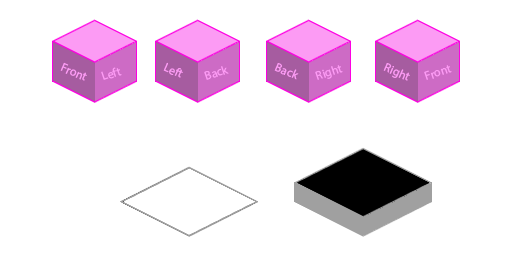
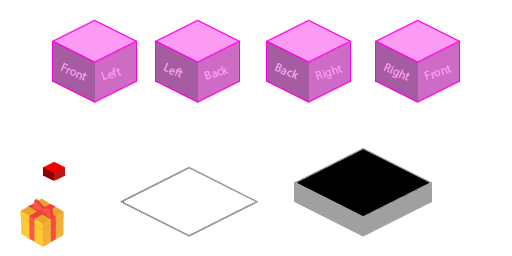
finished iso view items

Changed region(s): [[0.0312, 0.7812, 0.125, 0.9688], [0.0625, 0.625, 0.125, 0.7188]]

diff --git a/Isometric/Game.cs b/Isometric/Game.cs
@@ -15,7 +15,7 @@ namespace Isometric {
         public static readonly int TILE_H = 70;
         public int Score = 0;
         protected List<Bullet> projectiles = null;
-
+        protected int Sprite = 0;
         protected string spriteSheets = "Assets/isometric.png";
         protected string heroSheet = "Assets/isometric.png";
         protected string npcSheet = "Assets/isometric.png";
@@ -74,6 +74,7 @@ namespace Isometric {
             //Window.ClientSize = new Size(8 * tileSize, 6 * tileSize);
             Window.ClientSize = new Size(990, 550);
             projectiles = new List<Bullet>();
+            Sprite = TextureManager.Instance.LoadTexture(spriteSheets);
             TextureManager.Instance.UseNearestFiltering = true;
 
             GraphicsManager.Instance.SetDepthRange(0, 21 * 21);
@@ -87,9 +88,9 @@ namespace Isometric {
 
             room1.AddEnemy(npcSheet, new Point(6 * TILE_W, 1 * TILE_H), true);
             room2.AddEnemy(npcSheet, new Point(1 * TILE_W, 4 * TILE_H), false);
-            room1.AddItem(spriteSheets, new Rectangle(350, 255, 16, 16), 10, new Point(4 * TILE_W + 7, 2 * TILE_H + 7));
-            room1.AddItem(spriteSheets, new Rectangle(381, 256, 13, 15), 20, new Point(5 * TILE_W + 7, 4 * TILE_H + 7));
-            room2.AddItem(spriteSheets, new Rectangle(412, 256, 16, 15), 30, new Point(4 * TILE_W + 7, 2 * TILE_H + 7));
+            room1.AddItem(spriteSheets, new Rectangle(20, 198, 44, 49), 10, new Point(3 * TILE_W, 2 * TILE_H + 7));
+            room1.AddItem(spriteSheets, new Rectangle(20, 198, 44, 49), 20, new Point(5 * TILE_W, 4 * TILE_H + 7));
+            room2.AddItem(spriteSheets, new Rectangle(20, 198, 44, 49), 30, new Point(4 * TILE_W, 2 * TILE_H + 7));
         }
         public void Update(float dt) {
             if (InputManager.Instance.KeyPressed(OpenTK.Input.Key.U)) {
@@ -117,7 +118,7 @@ namespace Isometric {
                     else if (hero.currentSprite == "right") {
                         velocity.X = 100.0f;
                     }
-                    projectiles.Add(new Bullet(hero.Center, velocity));
+                    projectiles.Add(new Bullet(hero.Center, velocity,Sprite));
                 }
                 for (int i = projectiles.Count - 1; i >= 0; i--) {
                     projectiles[i].Update(dt);
@@ -192,6 +193,7 @@ namespace Isometric {
             room1.Destroy();
             room2.Destroy();
             hero.Destroy();
+            TextureManager.Instance.UnloadTexture(Sprite);
         }
     }
 }

diff --git a/Isometric/Bullet.cs b/Isometric/Bullet.cs
@@ -3,29 +3,37 @@ using System.Drawing;
 
 namespace Isometric {
     class Bullet {
+        private int spriteSheetHandle;
+        private Rectangle sourceRect = new Rectangle(43,161,22,20); //from spritesheet
         public PointF Position = new PointF(0f, 0f);
         public PointF Velocity = new PointF(0f, 0f);
         public Rectangle Rect {
             get {
-                return new Rectangle((int)Position.X - 5, (int)Position.Y - 5, 10, 10);
+                return new Rectangle(new Point((int)Position.X,(int)Position.Y), new Size(sourceRect.Width / 2, sourceRect.Width / 2));
             }
         }
-        public Bullet(PointF pos, PointF vel) {
+        public Bullet(PointF pos, PointF vel, int sheetReferance) {
             Position = pos;
             Velocity = vel;
+            spriteSheetHandle = sheetReferance;
         }
         public void Update(float dTime) {
             Position.X += Velocity.X * dTime;
             Position.Y += Velocity.Y * dTime;
         }
         public void Render(PointF offsetPosition) {
-            Rectangle renderRect = new Rectangle(0, 0, 10, 10);
-            renderRect.X = (int)(Position.X - 5.0f);
-            renderRect.Y = (int)(Position.Y - 5.0f);
-            renderRect.X -= (int)offsetPosition.X;
-            renderRect.Y -= (int)offsetPosition.Y;
+            PointF renderPoint = new PointF(Position.X,Position.Y);
+            renderPoint.X -= (int)offsetPosition.X;
+            renderPoint.Y -= (int)offsetPosition.Y;
+            renderPoint = Map.CartToIso(renderPoint);
+            renderPoint.X += 57;//allign with registration point
             GraphicsManager.Instance.SetDepth(19 * 19);
-            GraphicsManager.Instance.DrawRect(renderRect, Color.Red);
+            if (Game.ViewWorldSpace) {
+                GraphicsManager.Instance.DrawRect(Rect, Color.Red);
+            }
+            else {
+                TextureManager.Instance.Draw(spriteSheetHandle, new Point((int)renderPoint.X,(int)renderPoint.Y), 1.0f, sourceRect);
+            }
         }
     }
 }

diff --git a/Isometric/Item.cs b/Isometric/Item.cs
@@ -26,12 +26,20 @@ namespace Isometric {
         }
         public void Render(PointF offsetPosition) {
             int xTile = Position.X / 30;
-            int yTile = (Position.Y - 1) / 30;
+            int yTile = (Position.Y) / 30;
             GraphicsManager.Instance.SetDepth(yTile * 20 + xTile + 0.2f);
-            Point renderPosition = new Point((int)Position.X, (int)Position.Y);
+            PointF renderPosition = new PointF(Position.X,Position.Y);
             renderPosition.X -= (int)offsetPosition.X;
             renderPosition.Y -= (int)offsetPosition.Y;
-            TextureManager.Instance.Draw(Sprite, renderPosition, 1.0f, Source);
+            renderPosition = Map.CartToIso(renderPosition);
+            renderPosition.X += 50; //allign with registration point
+            if (Game.ViewWorldSpace) {
+                Rectangle r = new Rectangle(Position, new Size(Source.Width / 2, Source.Width / 2));
+                GraphicsManager.Instance.DrawRect(r, Color.DarkSeaGreen);
+            }
+            else {
+                TextureManager.Instance.Draw(Sprite, new Point((int)renderPosition.X,(int)renderPosition.Y), 1.0f, Source);
+            }
         }
         public void Destroy() {
             TextureManager.Instance.UnloadTexture(Sprite);

diff --git a/Isometric/Character.cs b/Isometric/Character.cs
@@ -66,7 +66,6 @@ namespace Isometric {
             }
             if (Game.ViewWorldSpace) {
                 GraphicsManager.Instance.DrawRect(Rect, Color.SteelBlue);
-                Console.WriteLine("Drawing: " + Rect);
             }
             else {
                 TextureManager.Instance.Draw(Sprite, new Point((int)renderPosition.X, (int)renderPosition.Y), 1.0f, SpriteSources[currentSprite][currentFrame]);
